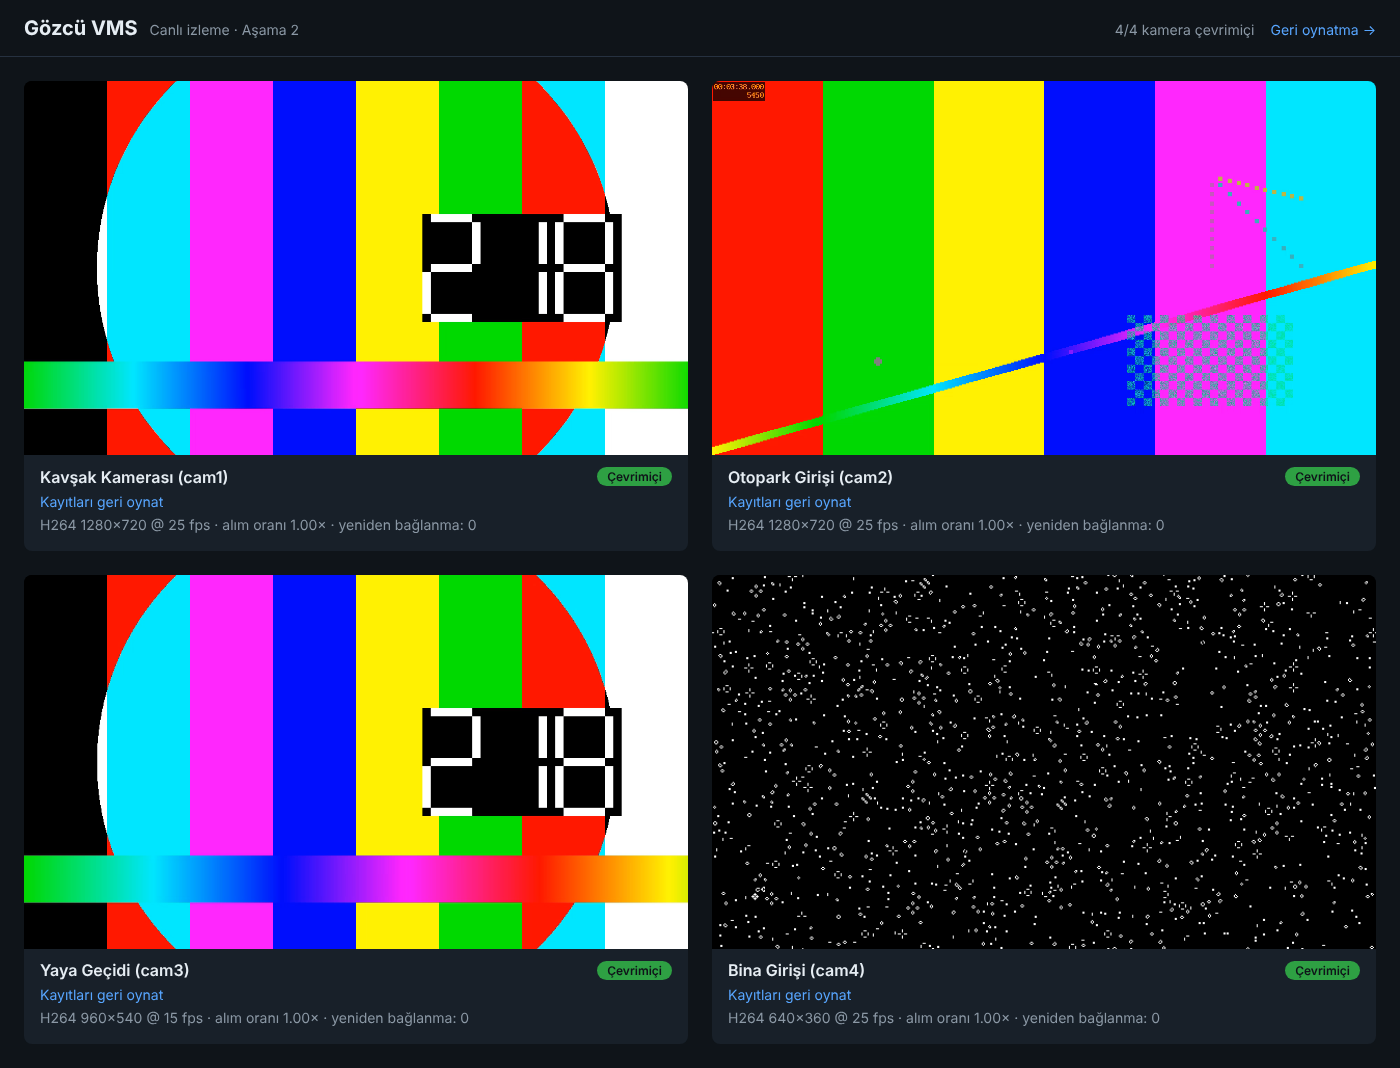
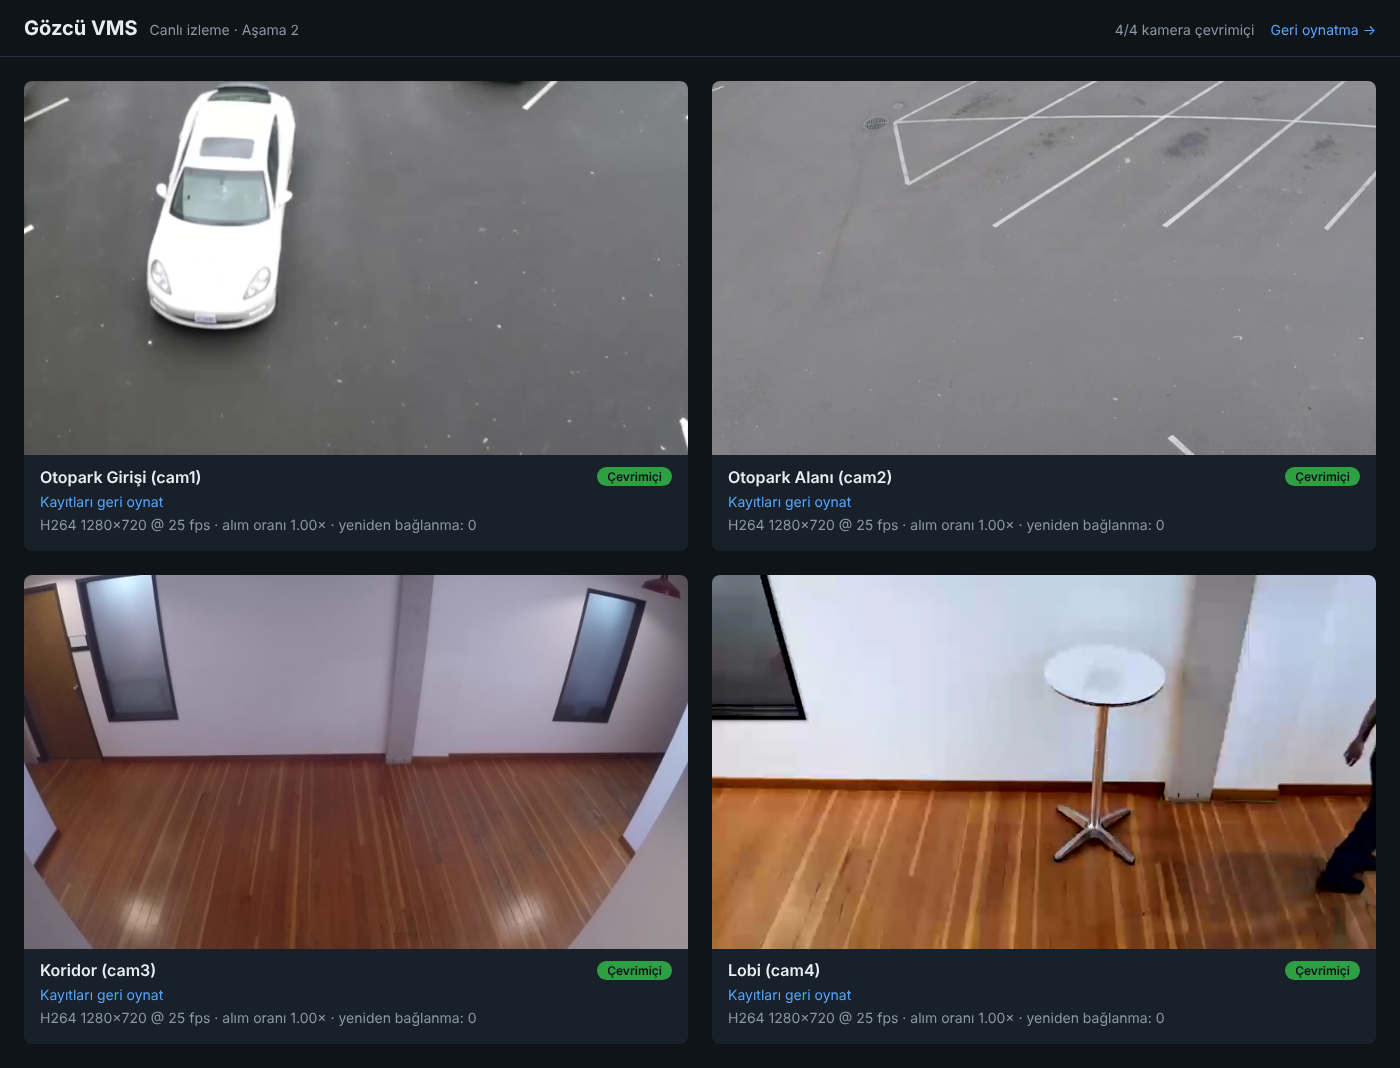
Sahte kameralar için örnek güvenlik kamerası videoları
- scripts/download-sample-videos.sh: Intel IoT DevKit örnek videolarını (CC BY 4.0) indirip cam1..cam4 için hazırlar
- Kamera adları videoların içeriğine göre güncellendi (otopark girişi, otopark alanı, koridor, lobi)
- Ekran görüntüleri gerçek görüntülerle yenilendi

diff --git a/samples/videos/README.md b/samples/videos/README.md
@@ -4,9 +4,24 @@ Bu klasördeki `<kamera-id>.mp4` dosyaları MediaMTX tarafından sonsuz döngüd
 yayınlanır (`rtsp://localhost:8554/<kamera-id>`). Dosya yoksa kamera test deseni yayınlar, yani sistem
 video olmadan da çalışır.
 
-Videolar boyutları nedeniyle repoya eklenmez. Pexels'tan ücretsiz bir trafik veya yaya videosu indirip
-(ör. <https://www.pexels.com/search/videos/traffic/>, <https://www.pexels.com/search/videos/pedestrians/>)
-hazırlama betiğine verin:
+Videolar boyutları nedeniyle repoya eklenmez. Hazır örnekleri tek komutla indirebilirsiniz:
+
+```bash
+./scripts/download-sample-videos.sh
+docker compose restart mediamtx
+```
+
+| Kamera | Video | İçerik |
+|---|---|---|
+| cam1 | `car-detection.mp4` | Otopark girişi, araçlar |
+| cam2 | `person-bicycle-car-detection.mp4` | Otopark alanı, yaya, bisiklet ve araç |
+| cam3 | `people-detection.mp4` | Koridor, yürüyen insanlar |
+| cam4 | `one-by-one-person-detection.mp4` | Lobi, tek tek geçen insanlar |
+
+Kaynak: [Intel IoT DevKit sample videos](https://github.com/intel-iot-devkit/sample-videos), lisans
+[CC BY 4.0](https://creativecommons.org/licenses/by/4.0/) (© Intel Corporation).
+
+Kendi videonuzu (ör. Pexels'tan bir trafik videosu) kullanmak için hazırlama betiğine verin:
 
 ```bash
 ./scripts/prepare-video.sh ~/Downloads/trafik.mp4 cam1

diff --git a/README.md b/README.md
@@ -33,7 +33,7 @@ run without real hardware. `docker compose up --build` starts everything.
 ```mermaid
 flowchart LR
     subgraph Kameralar["Sahte IP kameralar"]
-        V[(samples/videos/*.mp4<br/>veya test desenleri)] --> M[MediaMTX · cam1…cam4<br/>RTSP :8554 · HLS :8888]
+        V[(samples/videos/*.mp4<br/>örnek videolar veya test desenleri)] --> M[MediaMTX · cam1…cam4<br/>RTSP :8554 · HLS :8888]
     end
 
     M -- "RTSP (TCP)" --> S[Akış servisi<br/>bağlantı · yeniden bağlanma · sağlık]
@@ -99,9 +99,10 @@ Gereksinimler: Docker (Compose v2). Geliştirme için ayrıca .NET 8 SDK ve ffmp
 git clone https://github.com/mustafagulturk/gozcu-vms.git
 cd gozcu-vms
 
-# (İsteğe bağlı) Pexels'tan indirdiğin bir trafik videosunu cam1 olarak hazırla.
-# Bu adımı atlarsan her kamera (cam1…cam4) kendi test desenini yayınlar.
-./scripts/prepare-video.sh ~/Downloads/trafik.mp4 cam1
+# (İsteğe bağlı ama önerilir) Gerçek güvenlik kamerası görüntüleri: 4 örnek videoyu indirip hazırlar
+# (Intel IoT DevKit, CC BY 4.0). Bu adımı atlarsan her kamera kendi test desenini yayınlar.
+./scripts/download-sample-videos.sh
+# Kendi videonu kullanmak istersen: ./scripts/prepare-video.sh ~/Downloads/trafik.mp4 cam1
 
 docker compose up --build
 ```
